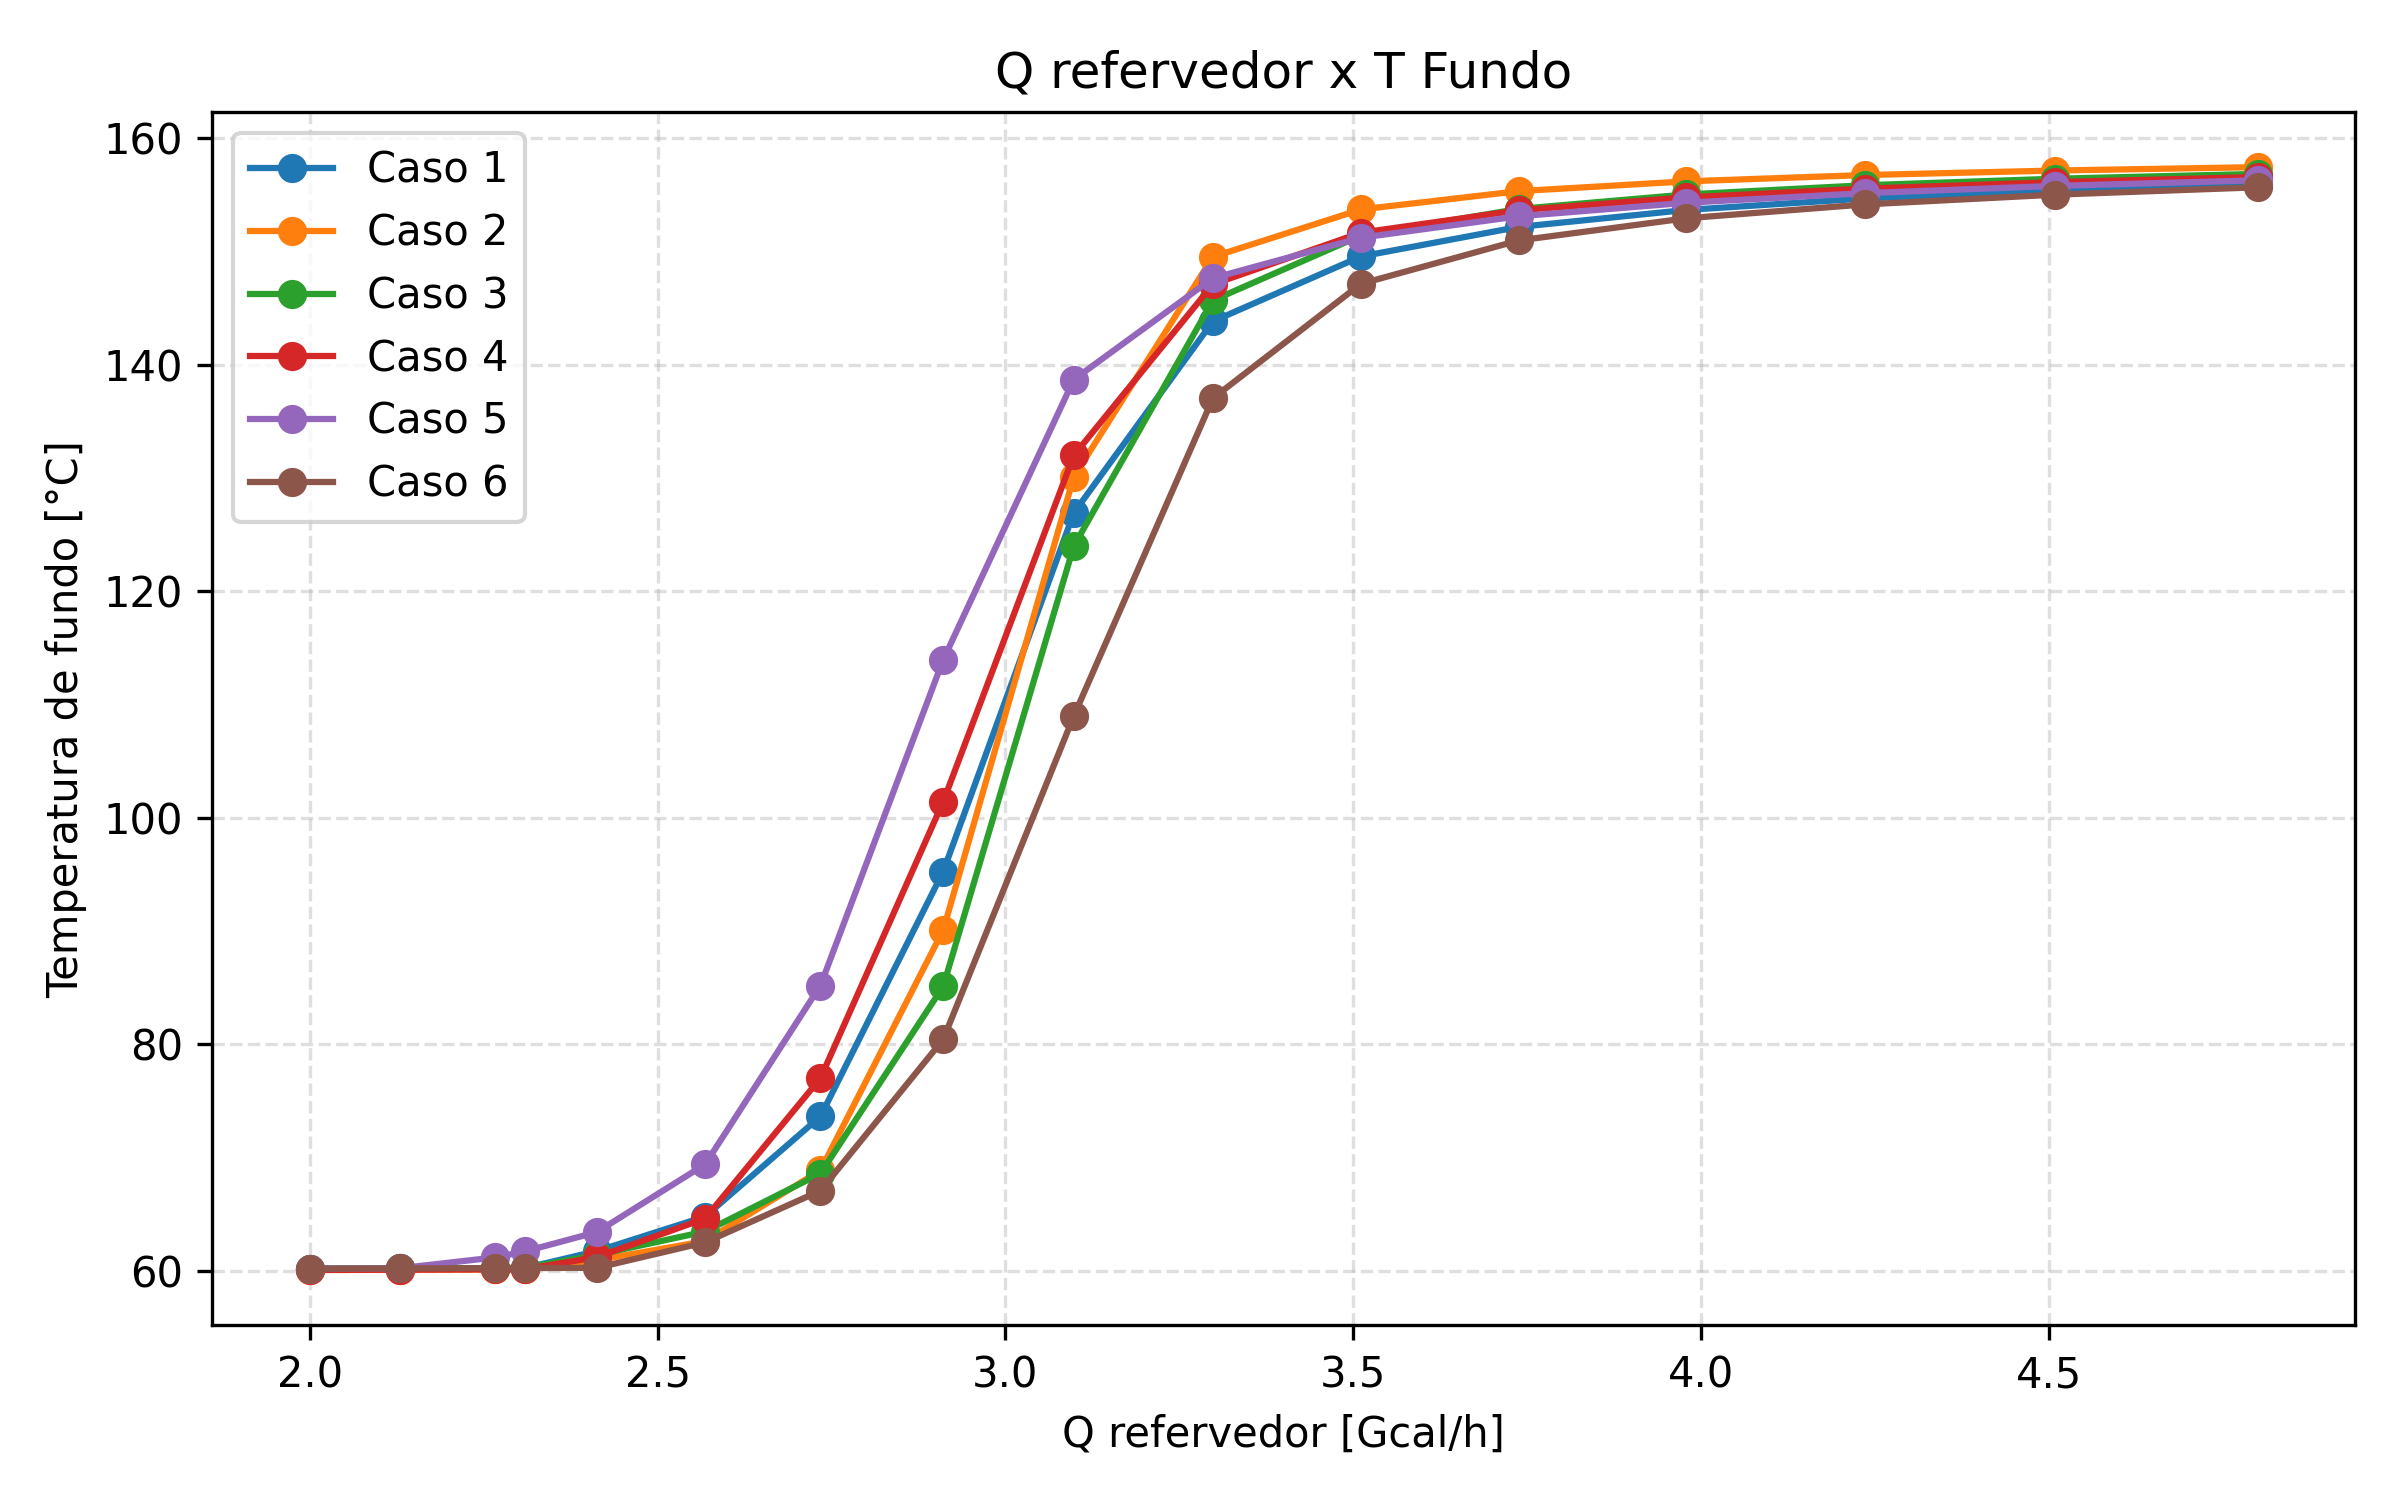
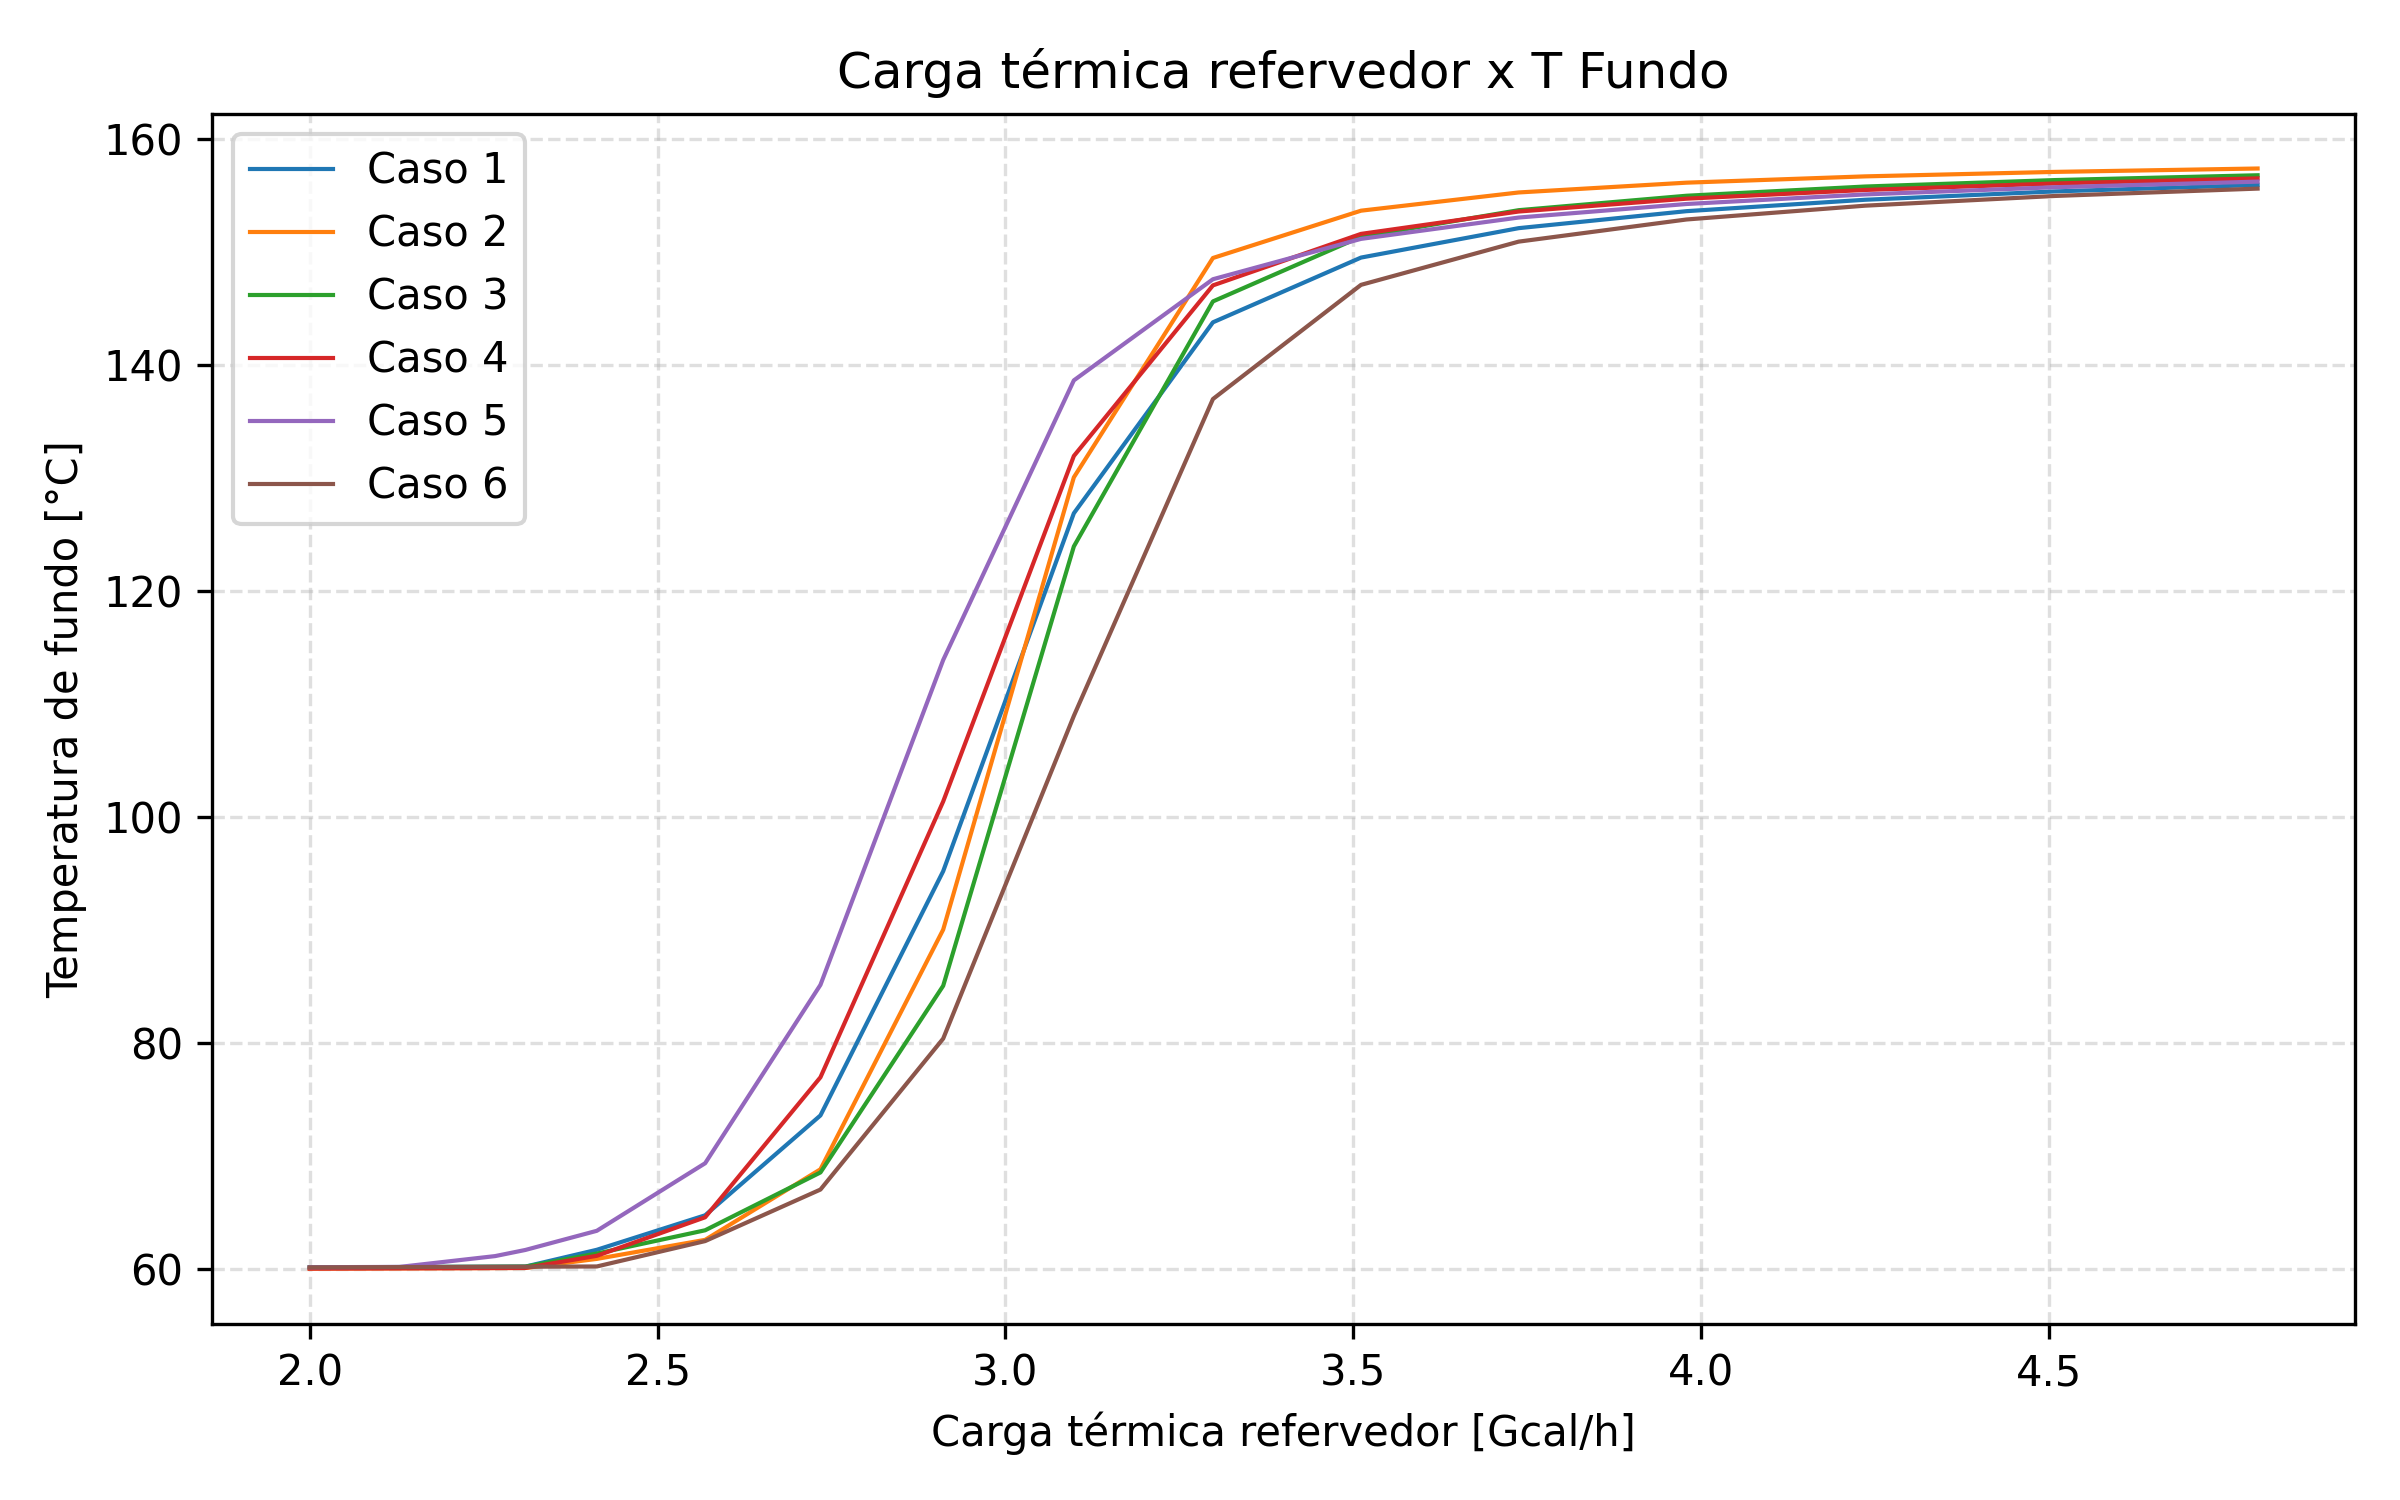
gráficoso

diff --git a/trabalho final/resultados/plot_sensibilidade.py b/trabalho final/resultados/plot_sensibilidade.py
@@ -16,7 +16,7 @@ def plot_metric(df, x_col, metric_name, column_template, y_label, title, filenam
 
     for case_idx in range(1, 7):
         col = column_template.format(case_idx)
-        ax.plot(x, df[col], marker="o", linewidth=1.5, label=f"Caso {case_idx}")
+        ax.plot(x, df[col], linewidth=1, label=f"Caso {case_idx}")
 
     ax.set_xlabel(x_col)
     ax.set_ylabel(y_label)
@@ -31,35 +31,35 @@ def plot_metric(df, x_col, metric_name, column_template, y_label, title, filenam
 def main():
     OUTPUT_DIR.mkdir(parents=True, exist_ok=True)
     df = pd.read_excel(DATA_PATH, sheet_name=SHEET_NAME)
-    x_col = "Q refervedor [Gcal/h]"
+    x_col = "Carga térmica refervedor [Gcal/h]"
 
     metrics = [
         {
             "metric_name": "T fundo [°C]",
             "column_template": "T fundo [°C] - Caso {}",
             "y_label": "Temperatura de fundo [°C]",
-            "title": "Q refervedor x T Fundo",
+            "title": "Carga térmica refervedor x T Fundo",
             "filename": "q_ref_vs_t_fundo.png",
         },
         {
             "metric_name": "T topo [°C]",
             "column_template": "T topo [°C] - Caso {}",
             "y_label": "Temperatura de topo [°C]",
-            "title": "Q refervedor x T Topo",
+            "title": "Carga térmica  refervedor x T Topo",
             "filename": "q_ref_vs_t_topo.png",
         },
         {
             "metric_name": "Recuperação H2S [%]",
             "column_template": "Recuperação H2S [%] - Caso {}",
             "y_label": "Recuperação de H2S [%]",
-            "title": "Q refervedor x Recuperação H2S",
+            "title": "Carga térmica refervedor x Recuperação H2S",
             "filename": "q_ref_vs_recuperacao_h2s.png",
         },
         {
             "metric_name": "Perda NH3 [%]",
             "column_template": "Perda NH3 [%] - Caso {}",
             "y_label": "Perda de NH3 [%]",
-            "title": "Q refervedor x Perda NH3",
+            "title": "Carga térmica refervedor x Perda NH3",
             "filename": "q_ref_vs_perda_nh3.png",
         },
     ]
